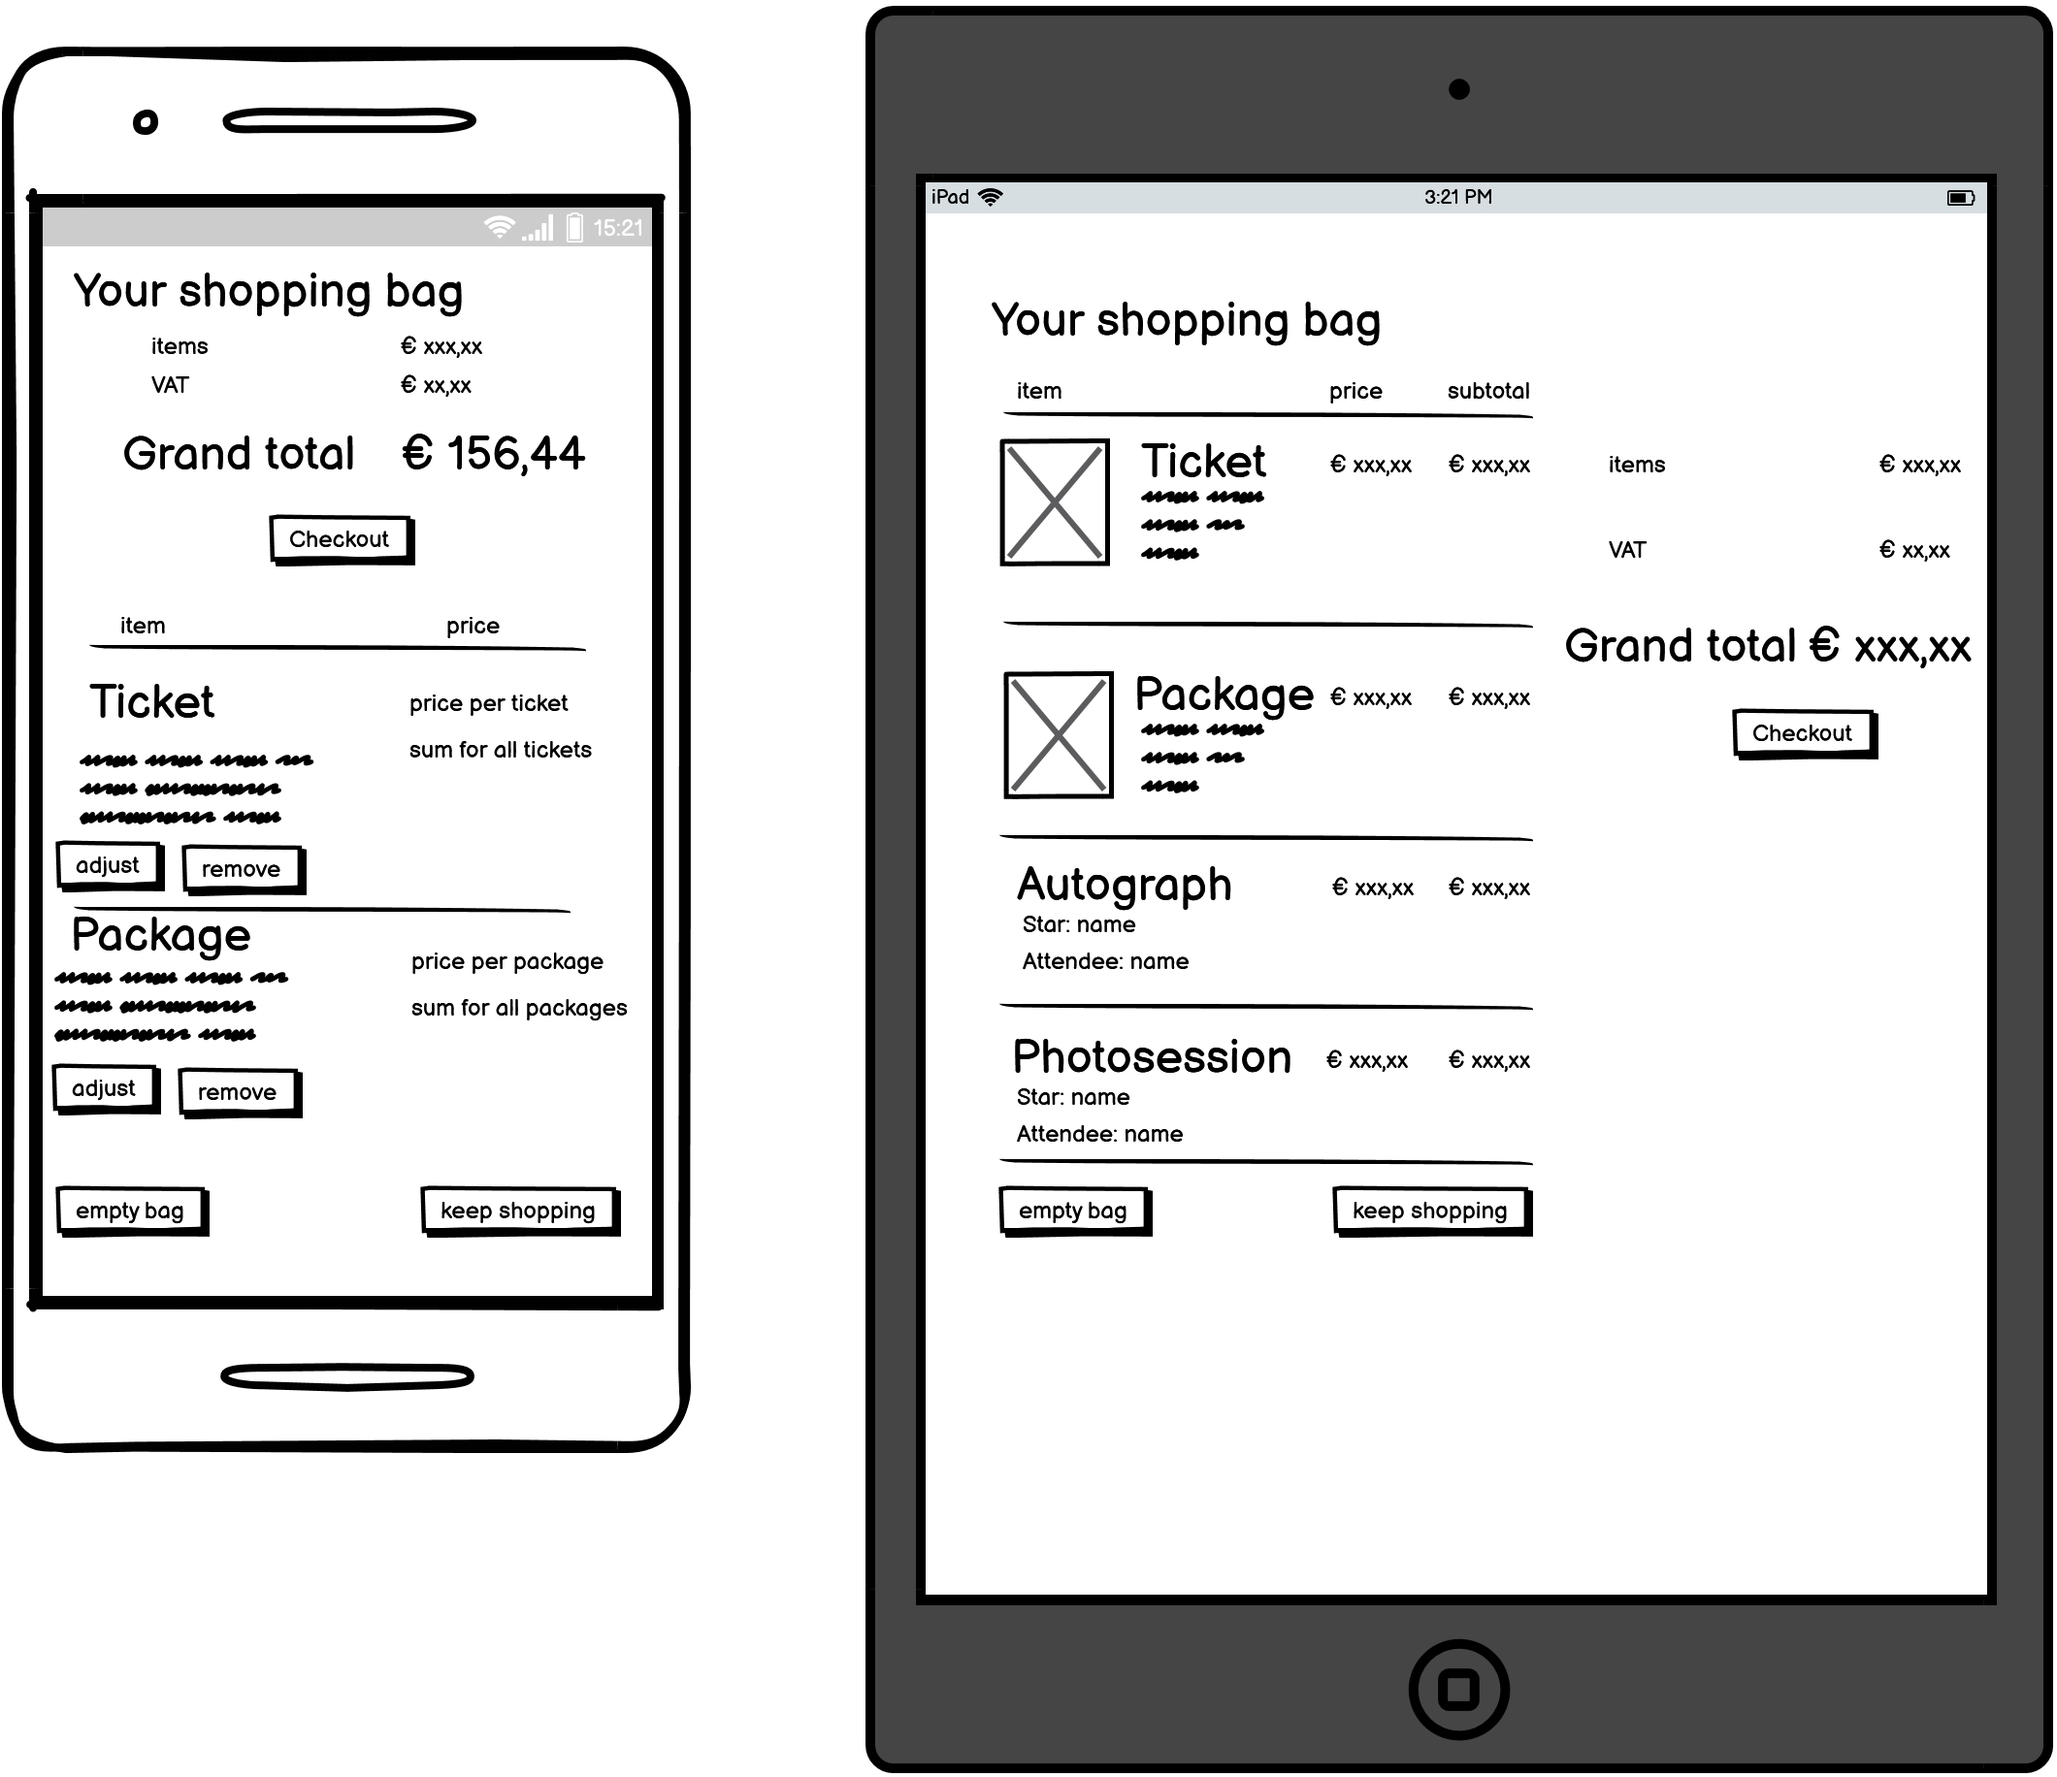
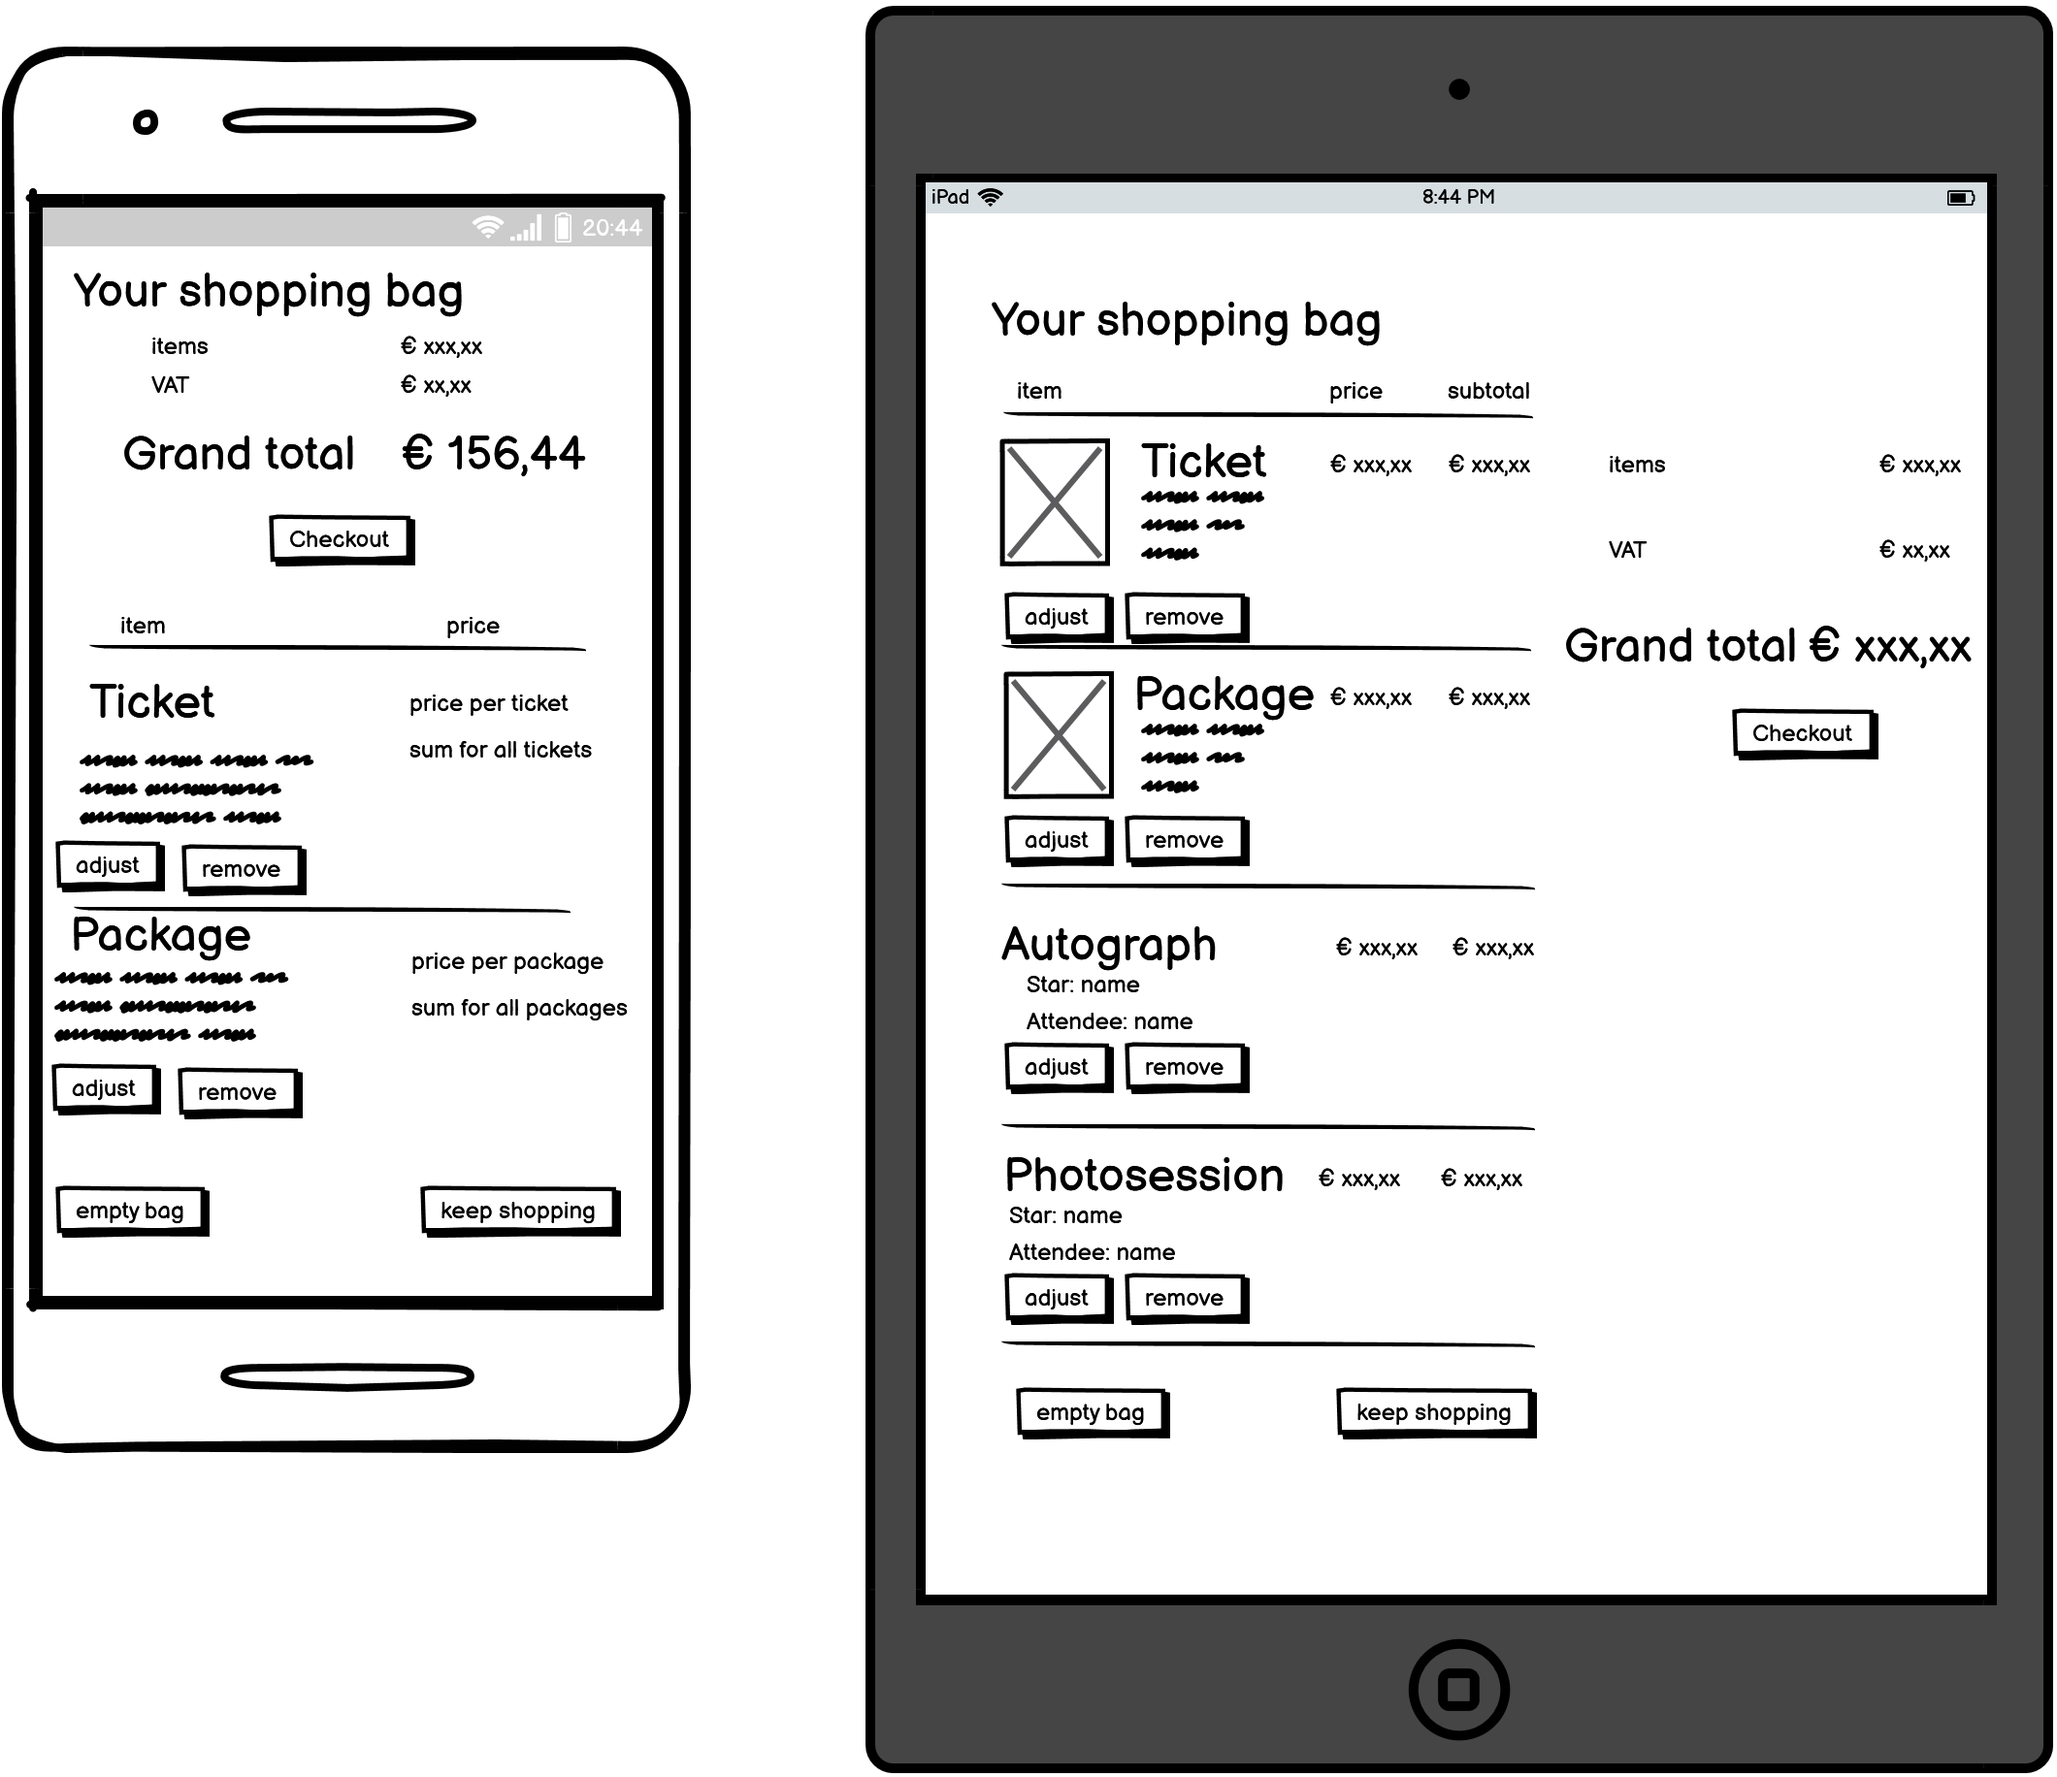
docs: Add and update wireframes
Added wireframes: actors, timetable, panel-details, and contact
Updated wireframes: tickets, bag, profile
Created project wiki and added wireframes to wireframes subdirectory
Updated wireframes link in readme

diff --git a/README.md b/README.md
@@ -84,7 +84,7 @@ To be added
 ---
 
 I used Balsamiq to plan the site’s layout for different viewports (mobile and tablet). To better demonstrate the differences, I sort my wireframes by page and show both versions next to each other.
-All wireframes for this project can be found in the [wireframes sub-directory](https://github.com/Ryagg/scifi_zone/tree/main/wireframes).
+All wireframes for this project can be found in the [project's wiki wireframes sub-directory](https://github.com/Ryagg/scifi_zone/wiki/wireframes/).
 
 ### **Database Schema**
 
